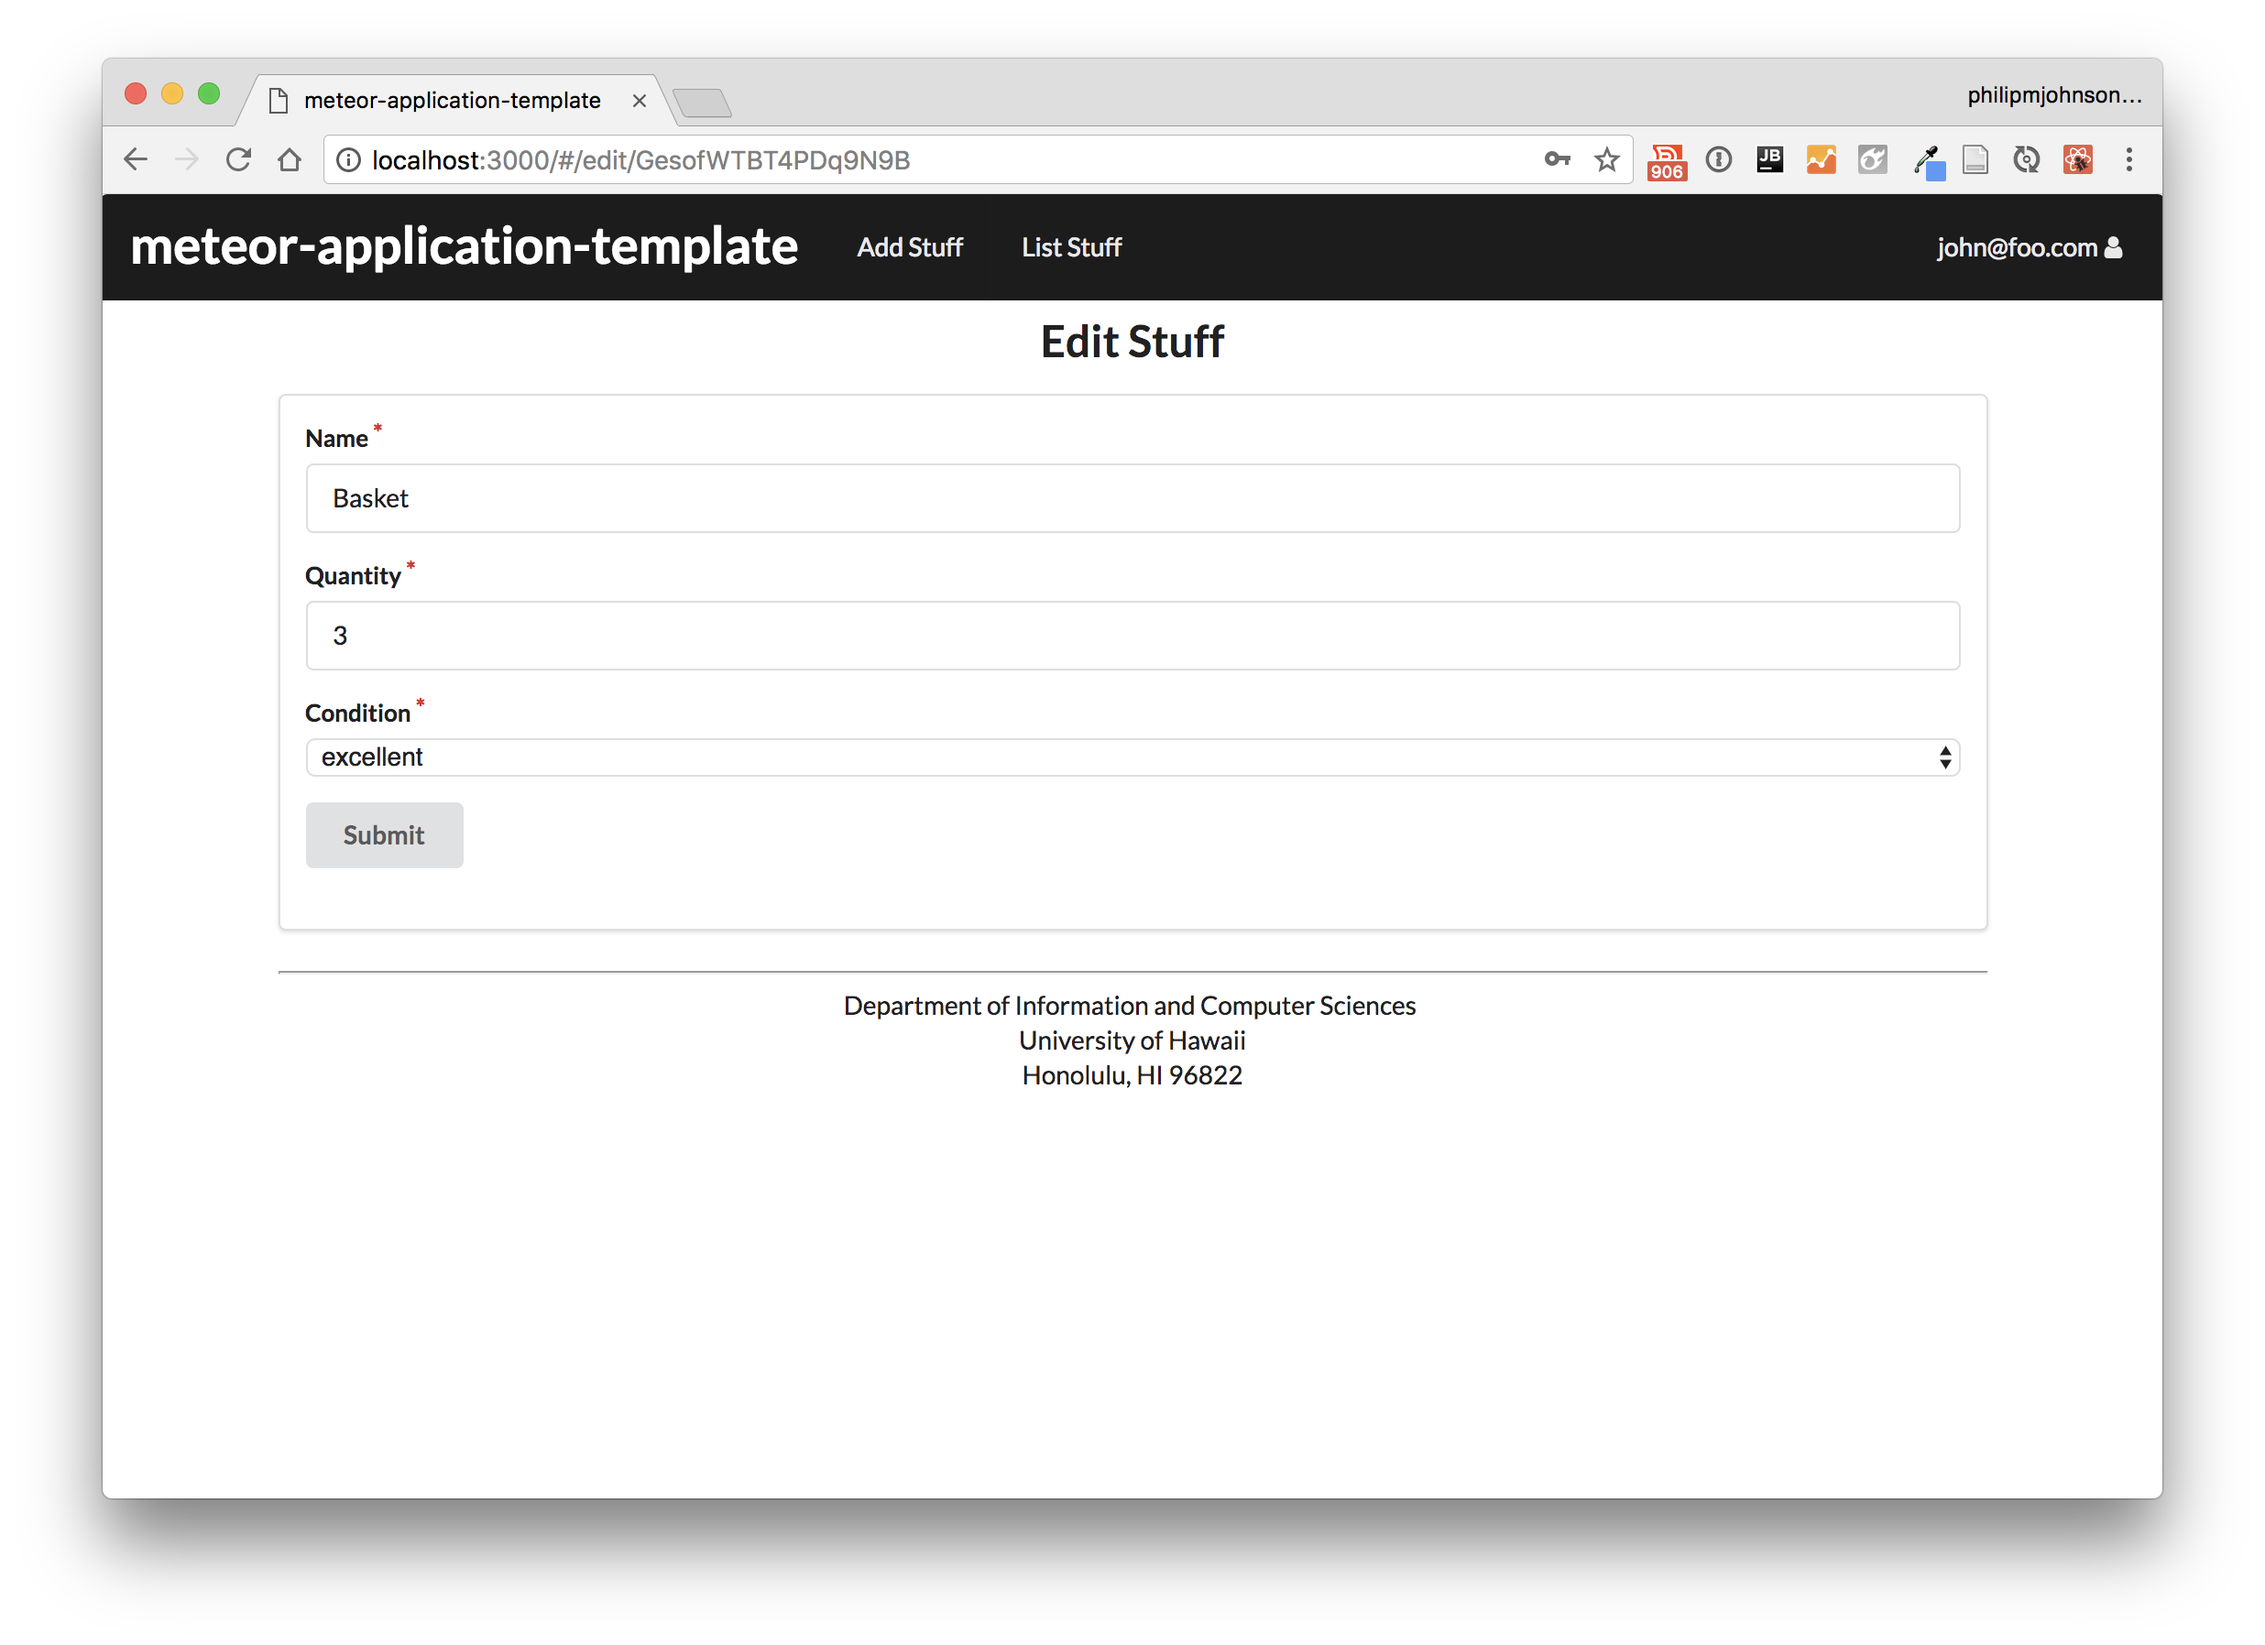
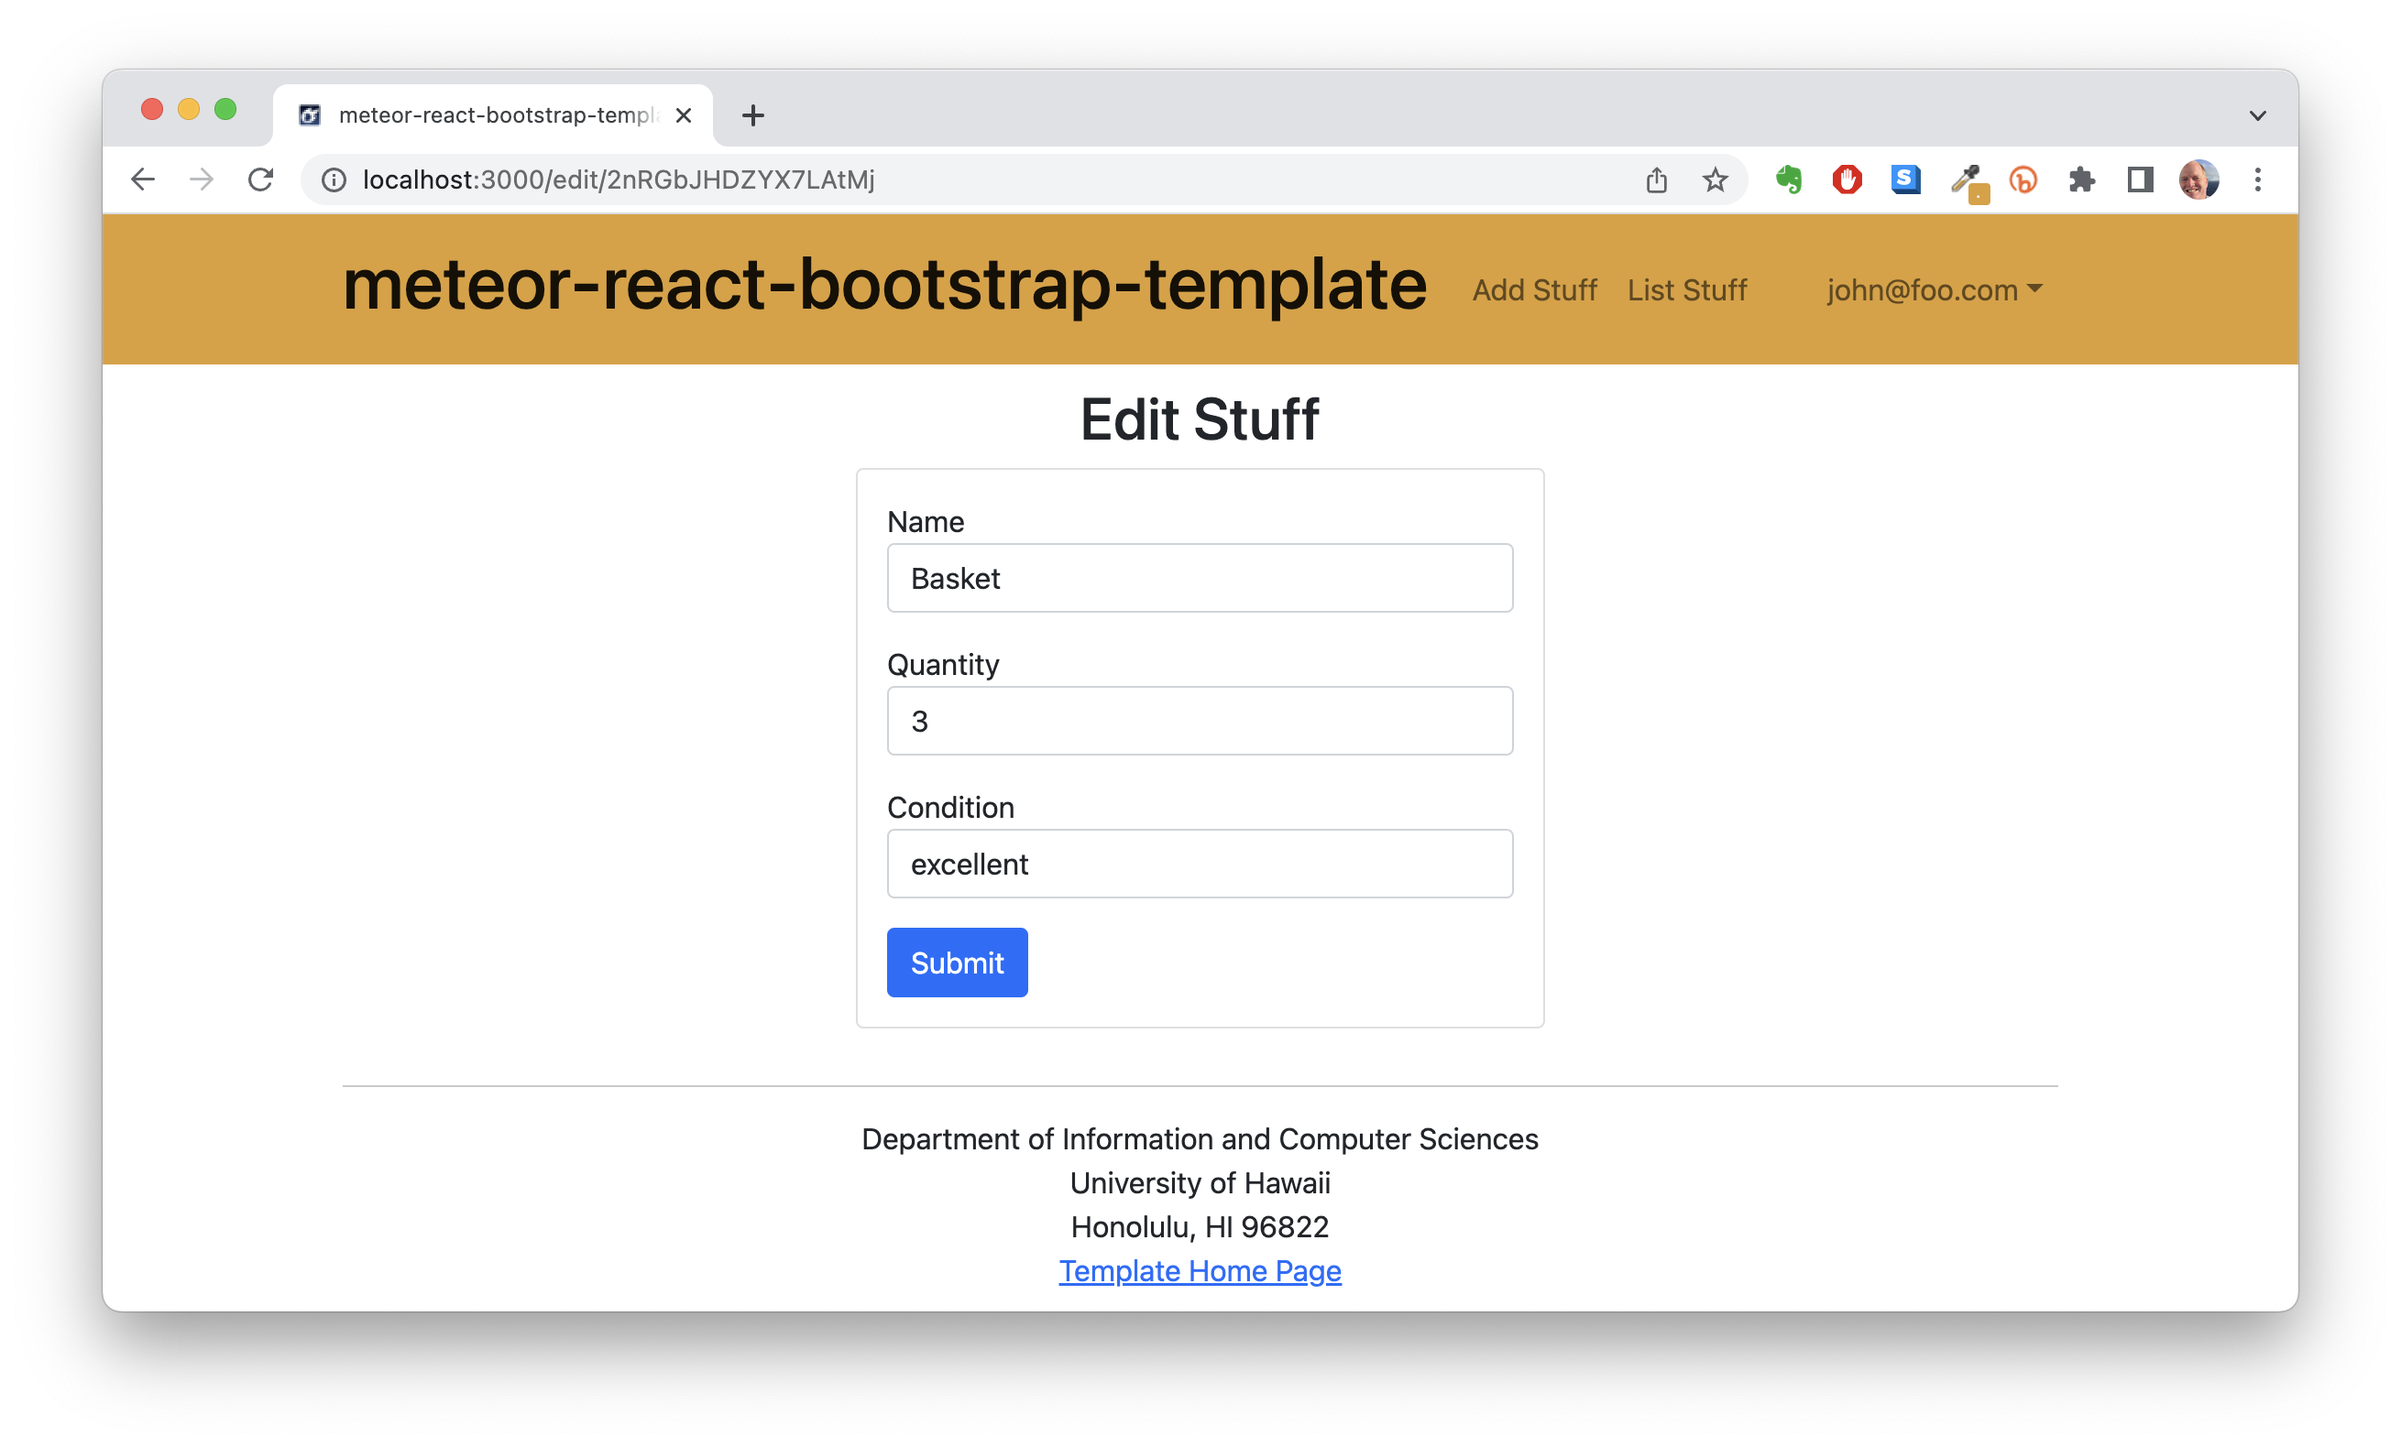
Updating images.

diff --git a/index.md b/index.md
@@ -1,9 +1,9 @@
 ![](https://raw.githubusercontent.com/ics-software-engineering/meteor-application-template-react/master/doc/landing-page.png)
 
-Meteor-application-template-react is a sample Meteor 2.6 application that illustrates:
+Meteor-application-template-react is a sample Meteor 2.7.1 application that illustrates:
 
   * A standard directory layout using 'imports/' as recommended in the [Meteor Guide](https://guide.meteor.com/structure.html)
-  * [Semantic UI React](https://react.semantic-ui.com/) for user interface.
+  * [Bootstrap 5 React](https://react-bootstrap.github.io/) for user interface.
   * [Uniforms](https://uniforms.tools/) for form development.
   * [alanning:roles](https://github.com/alanning/meteor-roles) to implement a special "Admin" user.
   * Authorization, authentication, and registration using built-in Meteor packages.
@@ -15,7 +15,7 @@ The goal of this template is to help you get quickly started doing Meteor develo
 
 To keep this codebase simple and small, some important capabilities are intentionally excluded from this template:
 
-  * Testing.
+  * Unit Testing.
   * Security (meteor-application-template-react enables the insecure packages)
 
 Examples of the these capabilities will be provided elsewhere.
@@ -47,43 +47,48 @@ The first time you run the app, it will create some default users and data. Here
 ```
 meteor npm run start
 
-> meteor-application-template-react@ start /Users/philipjohnson/github/ics-software-engineering/meteor-application-template-react/app
-> meteor --no-release-check --settings ../config/settings.development.json
 
-[[[[[ ~/github/ics-software-engineering/meteor-application-template-react/app ]]]]]
+> meteor-react-bootstrap-template@ start /Users/carletonmoore/meteor-react-bootstrap-template/app
+> npm-run-all css start-meteor
 
-=> Started proxy.
-=> Started MongoDB.
-I20180227-13:33:02.716(-10)? Creating the default user(s)
-I20180227-13:33:02.742(-10)?   Creating user admin@foo.com.
-I20180227-13:33:02.743(-10)?   Creating user john@foo.com.
-I20180227-13:33:02.743(-10)? Creating default data.
-I20180227-13:33:02.743(-10)?   Adding: Basket (john@foo.com)
-I20180227-13:33:02.743(-10)?   Adding: Bicycle (john@foo.com)
-I20180227-13:33:02.743(-10)?   Adding: Banana (admin@foo.com)
-I20180227-13:33:02.744(-10)?   Adding: Boogie Board (admin@foo.com)
+
+> meteor-react-bootstrap-template@ css /Users/carletonmoore/meteor-react-bootstrap-template/app
+> npm-run-all css-compile css-prefix
+
+
+> meteor-react-bootstrap-template@ css-compile /Users/carletonmoore/meteor-react-bootstrap-template/app
+> node-sass --include-path node_modules --output-style compressed --source-map true --source-map-contents true --precision 6 scss -o imports/startup/client/css/
+
+Rendering Complete, saving .css file...
+Wrote CSS to /Users/carletonmoore/meteor-react-bootstrap-template/app/imports/startup/client/css/theme.css
+Wrote Source Map to /Users/carletonmoore/meteor-react-bootstrap-template/app/imports/startup/client/css/theme.css.map
+Wrote 1 CSS files to /Users/carletonmoore/meteor-react-bootstrap-template/app/imports/startup/client/css/
+
+> meteor-react-bootstrap-template@ css-prefix /Users/carletonmoore/meteor-react-bootstrap-template/app
+> postcss imports/startup/client/css/theme.css --replace --use autoprefixer --map
+
+
+> meteor-react-bootstrap-template@ start-meteor /Users/carletonmoore/meteor-react-bootstrap-template/app
+> meteor --no-release-check --exclude-archs web.browser.legacy,web.cordova --settings ../config/settings.development.json
+
+[[[[[ ~/meteor-react-bootstrap-template/app ]]]]]
+
+=> Started proxy.                             
+=> Started HMR server.                        
+=> Started MongoDB.                           
+I20220515-09:42:29.808(-10)? Creating the default user(s)
+I20220515-09:42:29.814(-10)?   Creating user admin@foo.com.
+I20220515-09:42:29.880(-10)?   Creating user john@foo.com.
+I20220515-09:42:29.944(-10)? Creating default data.
+I20220515-09:42:29.944(-10)?   Adding: Basket (john@foo.com)
+I20220515-09:42:30.048(-10)?   Adding: Bicycle (john@foo.com)
+I20220515-09:42:30.049(-10)?   Adding: Banana (admin@foo.com)
+I20220515-09:42:30.050(-10)?   Adding: Boogie Board (admin@foo.com)
+I20220515-09:42:30.234(-10)? Monti APM: completed instrumenting the app
 => Started your app.
 
 => App running at: http://localhost:3000/
 ```
-
-
-### Note regarding "bcrypt warning":
-
-You might also get the following message when you run this application:
-
-```
-Note: you are using a pure-JavaScript implementation of bcrypt.
-While this implementation will work correctly, it is known to be
-approximately three times slower than the native implementation.
-In order to use the native implementation instead, run
-
-  meteor npm install --save bcrypt
-
-in the root directory of your application.
-```
-
-On some operating systems (particularly Windows), installing bcrypt is much more difficult than implied by the above message. Bcrypt is only used in Meteor for password checking, so the performance implications are negligible until your site has very high traffic. You can safely ignore this warning without any problems during initial stages of development.
 
 ### Note regarding "MongoError: not master and slaveOk=false":
 
@@ -120,6 +125,7 @@ The following sections describe the major features of this template.
 The top-level directory structure is:
 
 ```
+.github     # holds the GitHub Continuous Integration action and Issue template.
 app/        # holds the Meteor application sources
 config/     # holds configuration files, such as settings.development.json
 doc/        # holds developer documentation, user guides, etc.
@@ -131,6 +137,11 @@ This structure separates documentation files (such as screenshots) and configura
 The app/ directory has this structure:
 
 ```
+.deploy/
+  .gitignore     # don't commit mup.js or settings.json
+  mup.sample.js  # sample mup.js file used for deploying the application
+  settings.sample.json # sample settings file
+  
 client/
   main.html      # The boilerplate HTML with a "root" div to be manipulated by React.
   main.js        # import startup files.
@@ -142,16 +153,21 @@ imports/
     client/
     server/
   ui/
+    components/  # Contains page elements, some of which could appear on multiple pages.
     layouts/     # Contains top-level layout (<App> component).
     pages/       # Contains components for each page.
-    components/  # Contains page elements, some of which could appear on multiple pages.
 
 node_modules/    # managed by npm
 
 public/          # static assets (like images) can go here.
 
+scss/            
+  theme.scss     # Bootstrap 5 theme file.
+  
 server/
    main.js       # import the server-side js files.
+   
+tests/           # testcafe acceptance tests.
 ```
 
 ### Import conventions
@@ -160,7 +176,7 @@ This system adheres to the Meteor guideline of putting all application code in t
 
 ### Application functionality
 
-The application implements a simple CRUD application for managing "Stuff", which is a Mongo Collection consisting of a name (String), a quantity (Number), and a condition (one of 'excellent', 'good', 'fair', or 'poor').
+The application implements a simple CRUD application for managing "Stuff", which is a Mongo Collection consisting of a name (String), a quantity (Number), a condition (one of 'excellent', 'good', 'fair', or 'poor') and an owner.
 
 By default, each user only sees the Stuff that they have created.  However, the settings file enables you to define default accounts.  If you define a user with the role "admin", then that user gets access to a special page which lists all the Stuff defined by all users.
 
@@ -237,7 +253,7 @@ The Stuffs collection is initialized in [imports/startup/server/Mongo.js](https:
 
 ### CSS
 
-The application uses the [React implementation of Semantic UI](http://react.semantic-ui.com/).
+The application uses the [React implementation of Bootstrap 5](https://react-bootstrap.github.io/). You can adjust the theme by editing the `app/scss/theme.scss` file. We rebuild the Bootstrap 5 theme every time we run `meteor npm run start`.
 
 ### Routing
 
